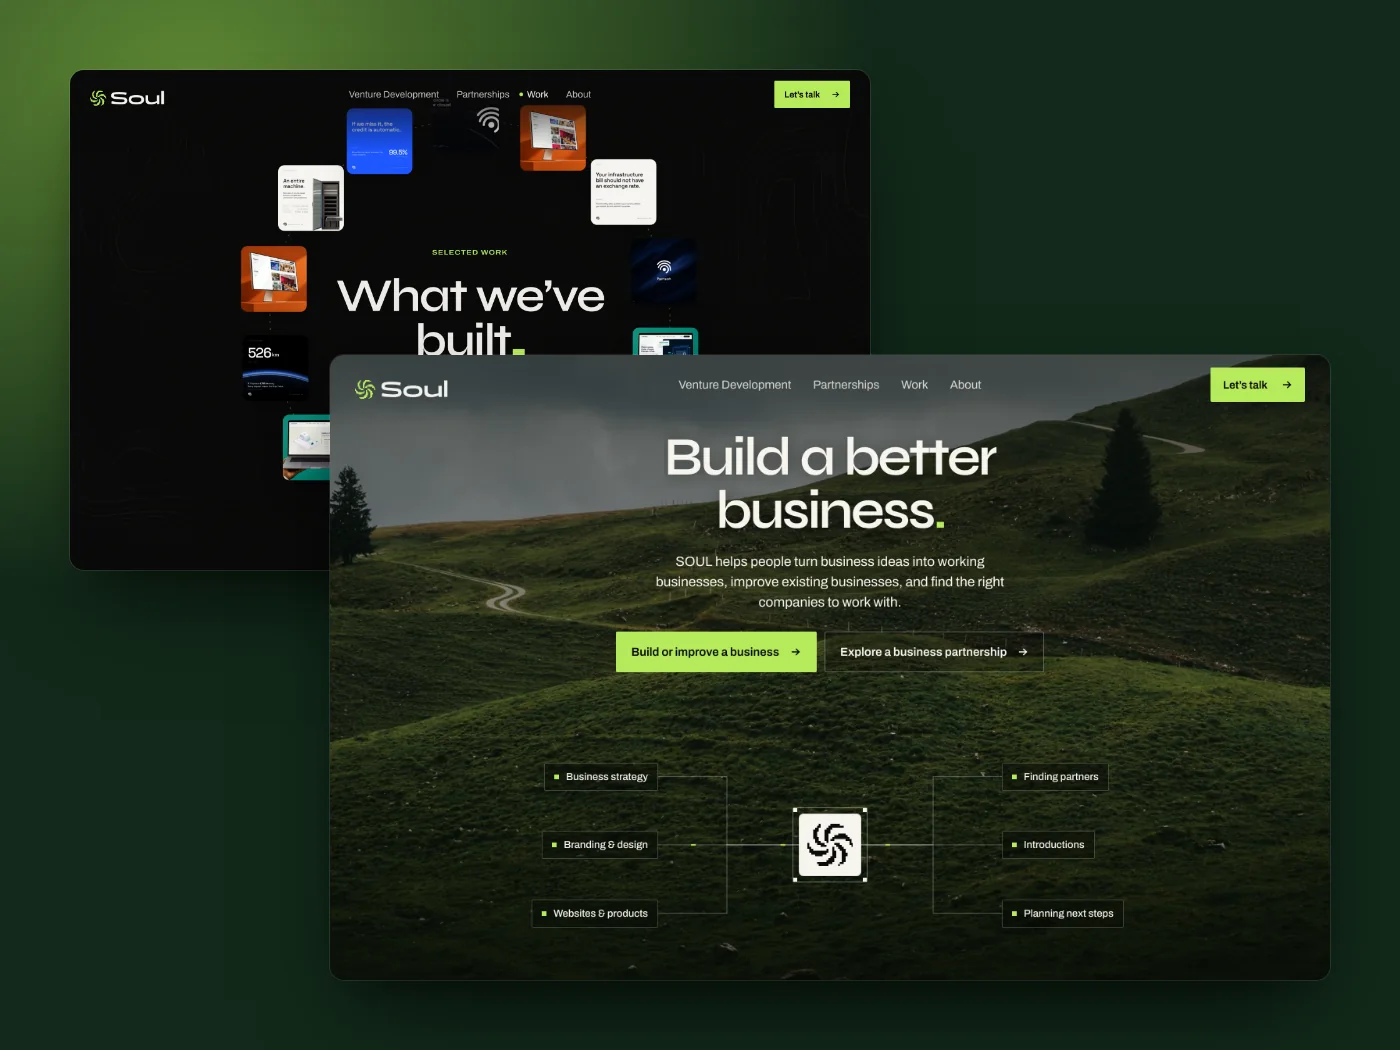
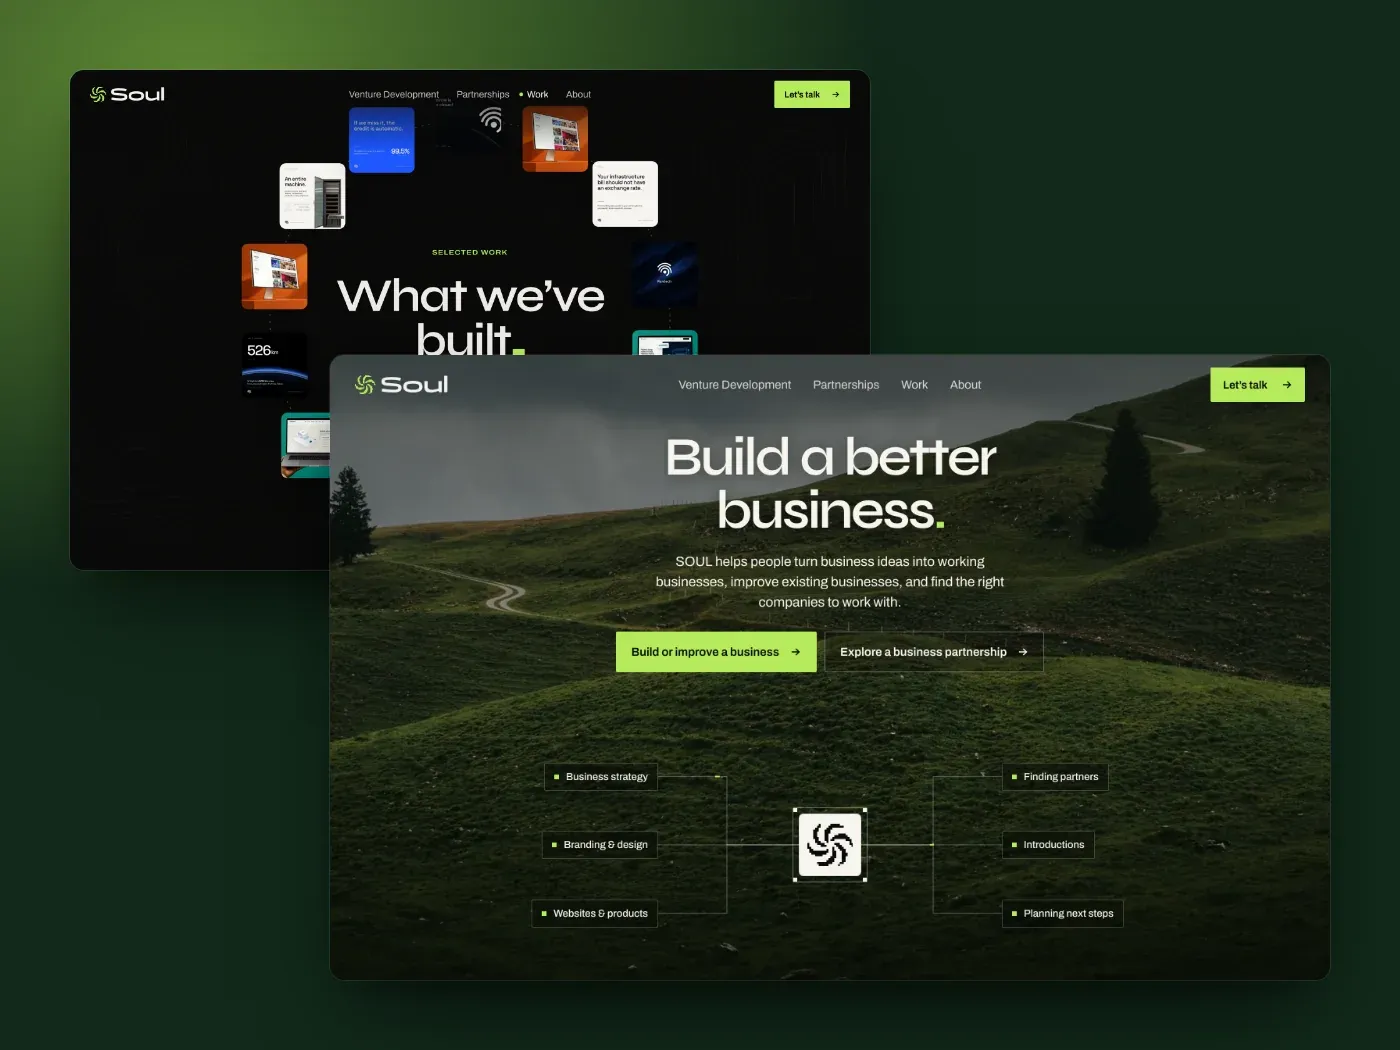
Websites: add NewCo Solutions, SOUL live, new order
- Order: SOUL, NewCo Solutions, Rhanamerzy, Emmanuel Atawodi
- SOUL and NewCo marked Live; SOUL images recaptured from the current site
- Same on the Projects page (Mercy Alexander kept, last)

Claude-Session: https://claude.ai/code/session_01EpaGSmBT7cHG5hsehJczMG

diff --git a/projects/index.html b/projects/index.html
@@ -1013,7 +1013,7 @@ document.addEventListener('DOMContentLoaded',()=>{const v=[...document.querySele
   </section>
 
   
-  <section class="mc-wrap ls-wrap"><div class="mw-in"><div class="mc-head"><p class="wk-label">Websites</p><p class="mc-intro">Recent client sites. Each one opens in a new tab.</p></div><div class="ls-grid"><a class="ls" href="https://rhanamerzy.com" target="_blank" rel="noopener noreferrer" aria-label="Open Rhanamerzy Concepts in a new tab"><span class="ls-shot"><img src="../img/more/rhanamerzy.webp" alt="Rhanamerzy Concepts website" loading="lazy"></span><span class="ls-top"><h3>Rhanamerzy Concepts</h3><span class="ls-live">Live</span></span><p class="ls-meta">Design and build · 2026</p><p>A strategic advisory and public-relations firm working between Africa and China.</p><span class="ls-go">Visit rhanamerzy.com <i>&#8599;</i></span></a><a class="ls" href="https://mercyalexanderfoundation.org" target="_blank" rel="noopener noreferrer" aria-label="Open Mercy Alexander Foundation in a new tab"><span class="ls-shot"><img src="../img/more/mercy-alexander.webp" alt="Mercy Alexander Foundation website" loading="lazy"></span><span class="ls-top"><h3>Mercy Alexander Foundation</h3><span class="ls-live">Live</span></span><p class="ls-meta">Design and build · 2026</p><p>A Nigerian foundation covering school fees, hospital bills and food for families in Lagos.</p><span class="ls-go">Visit mercyalexanderfoundation.org <i>&#8599;</i></span></a><a class="ls" href="https://atawodi.vercel.app" target="_blank" rel="noopener noreferrer" aria-label="Open Emmanuel Atawodi in a new tab"><span class="ls-shot"><img src="../img/more/atawodi.webp" alt="Emmanuel Atawodi website" loading="lazy"></span><span class="ls-top"><h3>Emmanuel Atawodi</h3><span class="ls-live wip">In progress</span></span><p class="ls-meta">Design and build · 2026</p><p>A portfolio for a systems-minded product engineer, built around an interactive map of his work.</p><span class="ls-go">Visit atawodi.vercel.app <i>&#8599;</i></span></a><a class="ls" href="https://soulagency.vercel.app" target="_blank" rel="noopener noreferrer" aria-label="Open SOUL in a new tab"><span class="ls-shot"><img src="../img/more/soul.webp" alt="SOUL website" loading="lazy"></span><span class="ls-top"><h3>SOUL</h3><span class="ls-live wip">In progress</span></span><p class="ls-meta">Design and build · 2026</p><p>A venture development studio that helps people turn ideas into working businesses and find the right partners.</p><span class="ls-go">Visit soulagency.vercel.app <i>&#8599;</i></span></a></div></div></section>
+  <section class="mc-wrap ls-wrap"><div class="mw-in"><div class="mc-head"><p class="wk-label">Websites</p><p class="mc-intro">Recent client sites. Each one opens in a new tab.</p></div><div class="ls-grid"><a class="ls" href="https://soulagency.vercel.app" target="_blank" rel="noopener noreferrer" aria-label="Open SOUL in a new tab"><span class="ls-shot"><img src="../img/more/soul.webp" alt="SOUL website" loading="lazy"></span><span class="ls-top"><h3>SOUL</h3><span class="ls-live">Live</span></span><p class="ls-meta">Design and build · 2026</p><p>A venture development studio that helps people turn ideas into working businesses and find the right partners.</p><span class="ls-go">Visit soulagency.vercel.app <i>&#8599;</i></span></a><a class="ls" href="https://www.newcosolutions.org" target="_blank" rel="noopener noreferrer" aria-label="Open NewCo Solutions in a new tab"><span class="ls-shot"><img src="../img/more/newco.webp" alt="NewCo Solutions website" loading="lazy"></span><span class="ls-top"><h3>NewCo Solutions</h3><span class="ls-live">Live</span></span><p class="ls-meta">Design and build · 2026</p><p>An infrastructure equipment supplier sourcing communications, CNG, elevator, solar and tractor equipment for buyers across Nigeria.</p><span class="ls-go">Visit newcosolutions.org <i>&#8599;</i></span></a><a class="ls" href="https://rhanamerzy.com" target="_blank" rel="noopener noreferrer" aria-label="Open Rhanamerzy Concepts in a new tab"><span class="ls-shot"><img src="../img/more/rhanamerzy.webp" alt="Rhanamerzy Concepts website" loading="lazy"></span><span class="ls-top"><h3>Rhanamerzy Concepts</h3><span class="ls-live">Live</span></span><p class="ls-meta">Design and build · 2026</p><p>A strategic advisory and public-relations firm working between Africa and China.</p><span class="ls-go">Visit rhanamerzy.com <i>&#8599;</i></span></a><a class="ls" href="https://atawodi.vercel.app" target="_blank" rel="noopener noreferrer" aria-label="Open Emmanuel Atawodi in a new tab"><span class="ls-shot"><img src="../img/more/atawodi.webp" alt="Emmanuel Atawodi website" loading="lazy"></span><span class="ls-top"><h3>Emmanuel Atawodi</h3><span class="ls-live wip">In progress</span></span><p class="ls-meta">Design and build · 2026</p><p>A portfolio for a systems-minded product engineer, built around an interactive map of his work.</p><span class="ls-go">Visit atawodi.vercel.app <i>&#8599;</i></span></a><a class="ls" href="https://mercyalexanderfoundation.org" target="_blank" rel="noopener noreferrer" aria-label="Open Mercy Alexander Foundation in a new tab"><span class="ls-shot"><img src="../img/more/mercy-alexander.webp" alt="Mercy Alexander Foundation website" loading="lazy"></span><span class="ls-top"><h3>Mercy Alexander Foundation</h3><span class="ls-live">Live</span></span><p class="ls-meta">Design and build · 2026</p><p>A Nigerian foundation covering school fees, hospital bills and food for families in Lagos.</p><span class="ls-go">Visit mercyalexanderfoundation.org <i>&#8599;</i></span></a></div></div></section>
 <section class="mc-wrap"><div class="mw-in"><div class="mc-head"><p class="wk-label">More work</p><p class="mc-intro">Smaller projects, shown without a full case study.</p></div><article class="mc"><div class="mc-txt"><div><h3>Madica</h3><p class="mc-meta">Curva Digital · 2020–2022</p></div><p>A programme backing early-stage ventures across Africa. At Curva Digital I worked on the brand system and the marketing site that explains the programme to founders.</p></div><div class="mc-img"><img class="mc-big" src="../img/more/madica-site.webp" alt="Madica marketing site" loading="lazy"><div class="mc-small"><img src="../img/more/madica-brand.webp" alt="Madica brand system" loading="lazy"></div></div></article></div></section><section class="sh-wrap"><div class="mw-in"><div class="mc-head"><p class="wk-label">Visual explorations</p><p class="mc-intro">Interface work and explorations outside the case studies.</p></div><div class="sh-grid"><figure class="sh wide" style="background:#EBE7E0"><img src="../img/more/shot-4.webp" alt="Email marketing dashboard" loading="lazy"></figure><figure class="sh wide" style="background:#E2EFEA"><img src="../img/more/shot-3.webp" alt="Research workspace for a product team" loading="lazy"></figure><figure class="sh" style="background:#15171C"><img src="../img/more/shot-2.webp" alt="Investment app" loading="lazy"></figure><figure class="sh" style="background:#15142B"><img src="../img/more/shot-5.webp" alt="Project management app" loading="lazy"></figure><figure class="sh wide" style="background:#E4E9F5"><img src="../img/more/shot-1.webp" alt="HR time and attendance" loading="lazy"></figure><figure class="sh wide" style="background:#0F2A26"><img src="../img/more/shot-6.webp" alt="Projects board" loading="lazy"></figure><figure class="sh wide" style="background:#ECEAE6"><img src="../img/more/shot-7.webp" alt="Timesheet" loading="lazy"></figure></div></div></section></main>
 <footer class="site-footer" id="contact">
     <div class="foot-inner">

diff --git a/index.html b/index.html
@@ -1149,7 +1149,7 @@ html.mm-lock,html.mm-lock body{overflow:hidden}
   </section>
 
   
-  <section class="websites" id="websites" aria-label="Websites"><div class="wb-in"><div class="wb-head"><h2 class="wb-title">Websites<span class="wb-n">(03)</span></h2><p class="wb-lede">Sites I designed and built recently. Open one to see the real thing.</p></div><div class="wb-grid"><a class="wb" href="https://atawodi.vercel.app" target="_blank" rel="noopener noreferrer" aria-label="Open Emmanuel Atawodi in a new tab"><span class="wb-shot" style="--base:#0d0b09"><img src="img/web/atawodi.webp" alt="Two pages of the Emmanuel Atawodi site: the hero and the about section" loading="lazy" width="1400" height="1050"></span><span class="wb-top"><b>Emmanuel Atawodi</b><span class="wb-st wip">In progress</span></span><span class="wb-kind">Portfolio site for a product engineer</span></a><a class="wb" href="https://soulagency.vercel.app" target="_blank" rel="noopener noreferrer" aria-label="Open SOUL in a new tab"><span class="wb-shot" style="--base:#12291a"><img src="img/web/soul.webp" alt="Two pages of the SOUL site: the hero and the services section" loading="lazy" width="1400" height="1050"></span><span class="wb-top"><b>SOUL</b><span class="wb-st wip">In progress</span></span><span class="wb-kind">Venture development studio</span></a><a class="wb" href="https://rhanamerzy.com" target="_blank" rel="noopener noreferrer" aria-label="Open Rhanamerzy Concepts in a new tab"><span class="wb-shot" style="--base:#a8461a"><img src="img/web/rhanamerzy.webp" alt="Two pages of the Rhanamerzy Concepts site: the hero and the track record section" loading="lazy" width="1400" height="1050"></span><span class="wb-top"><b>Rhanamerzy Concepts</b><span class="wb-st live">Live</span></span><span class="wb-kind">Advisory and PR firm, Nigeria and China</span></a></div></div></section>
+  <section class="websites" id="websites" aria-label="Websites"><div class="wb-in"><div class="wb-head"><h2 class="wb-title">Websites<span class="wb-n">(04)</span></h2><p class="wb-lede">Sites I designed and built recently. Open one to see the real thing.</p></div><div class="wb-grid"><a class="wb" href="https://soulagency.vercel.app" target="_blank" rel="noopener noreferrer" aria-label="Open SOUL in a new tab"><span class="wb-shot" style="--base:#12291a"><img src="img/web/soul.webp" alt="Two pages of the SOUL site: the home page and the work page" loading="lazy" width="1400" height="1050"></span><span class="wb-top"><b>SOUL</b><span class="wb-st live">Live</span></span><span class="wb-kind">Venture development studio</span></a><a class="wb" href="https://www.newcosolutions.org" target="_blank" rel="noopener noreferrer" aria-label="Open NewCo Solutions in a new tab"><span class="wb-shot" style="--base:#132a2c"><img src="img/web/newco.webp" alt="Two pages of the NewCo Solutions site: the hero and the supply areas section" loading="lazy" width="1400" height="1050"></span><span class="wb-top"><b>NewCo Solutions</b><span class="wb-st live">Live</span></span><span class="wb-kind">Infrastructure equipment supplier, Nigeria</span></a><a class="wb" href="https://rhanamerzy.com" target="_blank" rel="noopener noreferrer" aria-label="Open Rhanamerzy Concepts in a new tab"><span class="wb-shot" style="--base:#a8461a"><img src="img/web/rhanamerzy.webp" alt="Two pages of the Rhanamerzy Concepts site: the hero and the track record section" loading="lazy" width="1400" height="1050"></span><span class="wb-top"><b>Rhanamerzy Concepts</b><span class="wb-st live">Live</span></span><span class="wb-kind">Advisory and PR firm, Nigeria and China</span></a><a class="wb" href="https://atawodi.vercel.app" target="_blank" rel="noopener noreferrer" aria-label="Open Emmanuel Atawodi in a new tab"><span class="wb-shot" style="--base:#0d0b09"><img src="img/web/atawodi.webp" alt="Two pages of the Emmanuel Atawodi site: the hero and the about section" loading="lazy" width="1400" height="1050"></span><span class="wb-top"><b>Emmanuel Atawodi</b><span class="wb-st wip">In progress</span></span><span class="wb-kind">Portfolio site for a product engineer</span></a></div></div></section>
 
   <section class="voices" id="testimonials">
     <div class="voices-inner">
